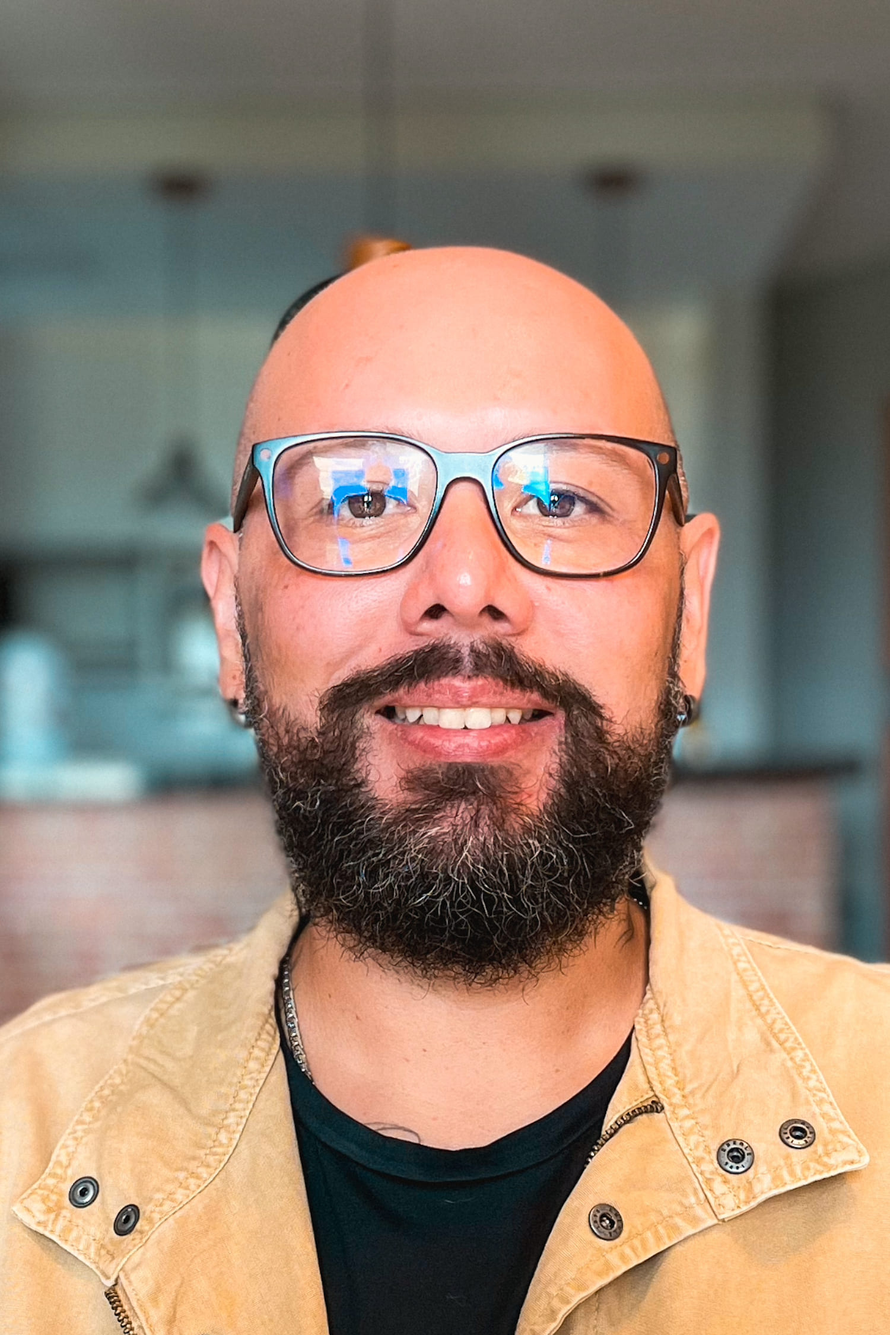
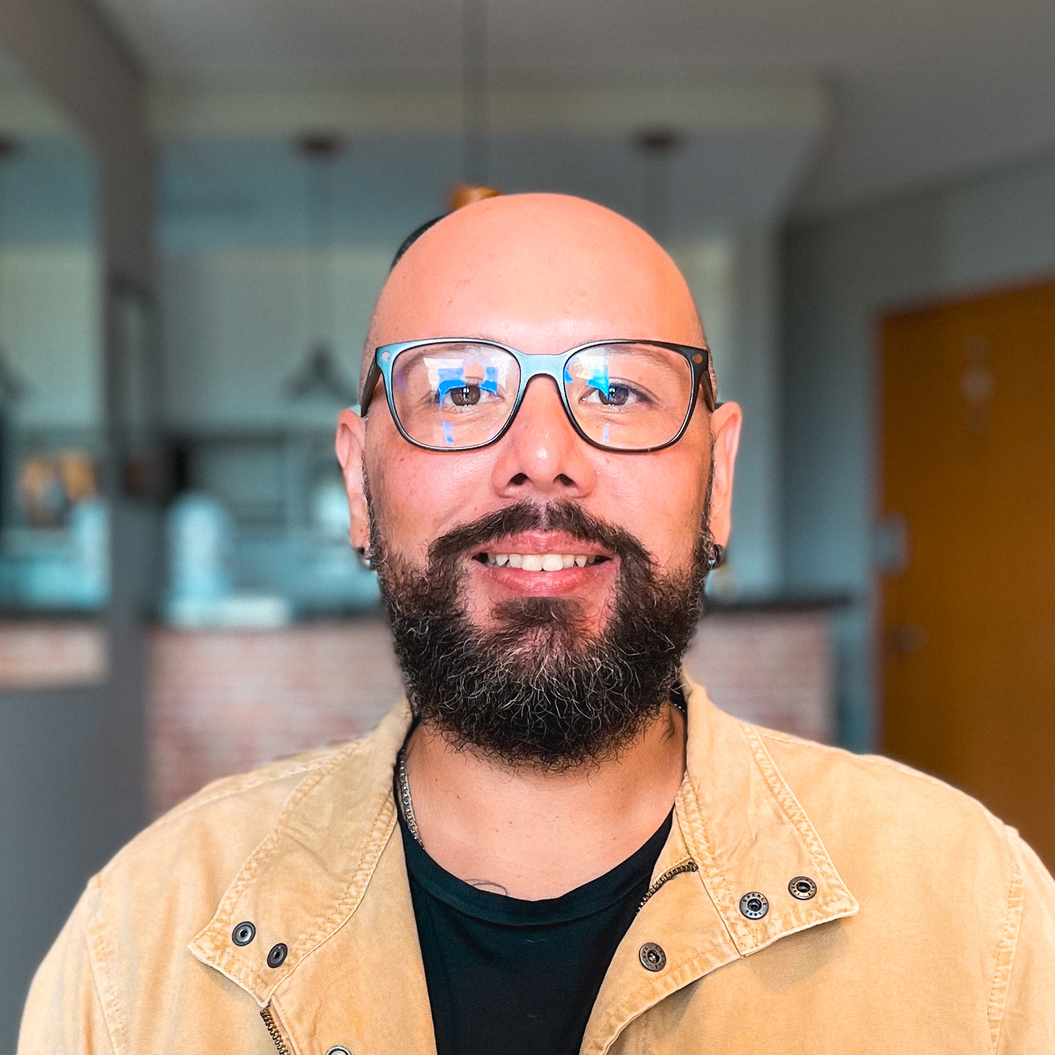
Commit LP
Commit LP

diff --git a/index.html b/index.html
@@ -66,7 +66,7 @@
         <div class="row intro-content">
 
             <div class="column large-9 mob-full intro-text">
-                <h3>Wesley Morais</h3>
+                <h3>Olá, sou Wesley Morais</h3>
                 <h1>
                     Desenvolvo estratégias para impulsionar os
                     resultados do seu negócio.

diff --git a/css/main.css b/css/main.css
@@ -1930,7 +1930,7 @@ input::-moz-focus-inner {
   background-image: url(../images/hero-pic.jpg);
   background-size: cover;
   position: absolute;
-  top: 20%;
+  top: 35%;
   right: 0;
   bottom: 0;
   left: 50%;
